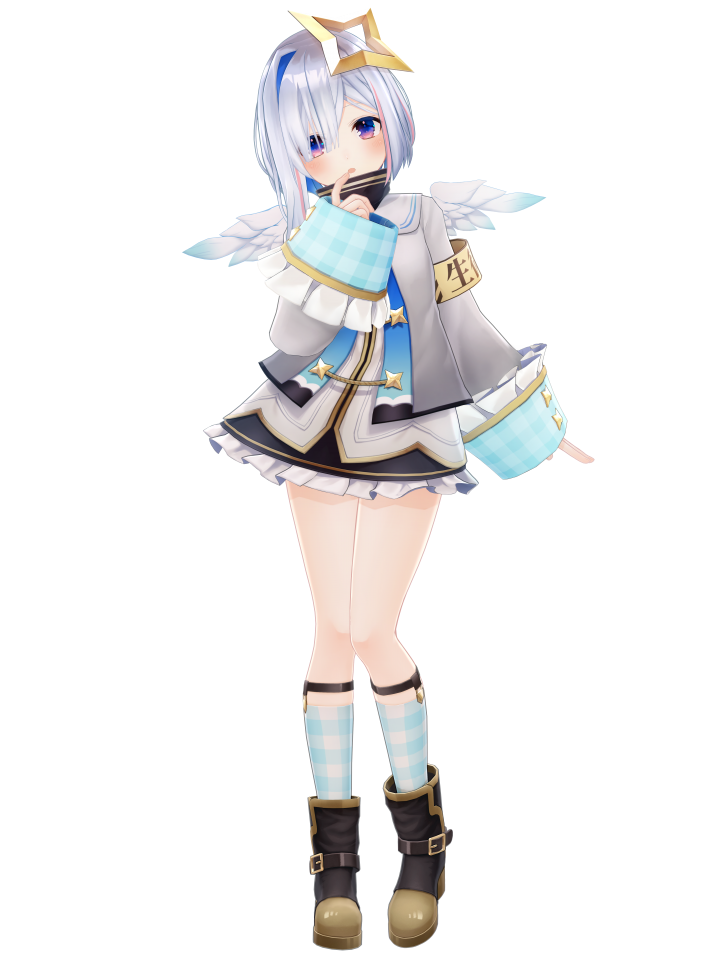
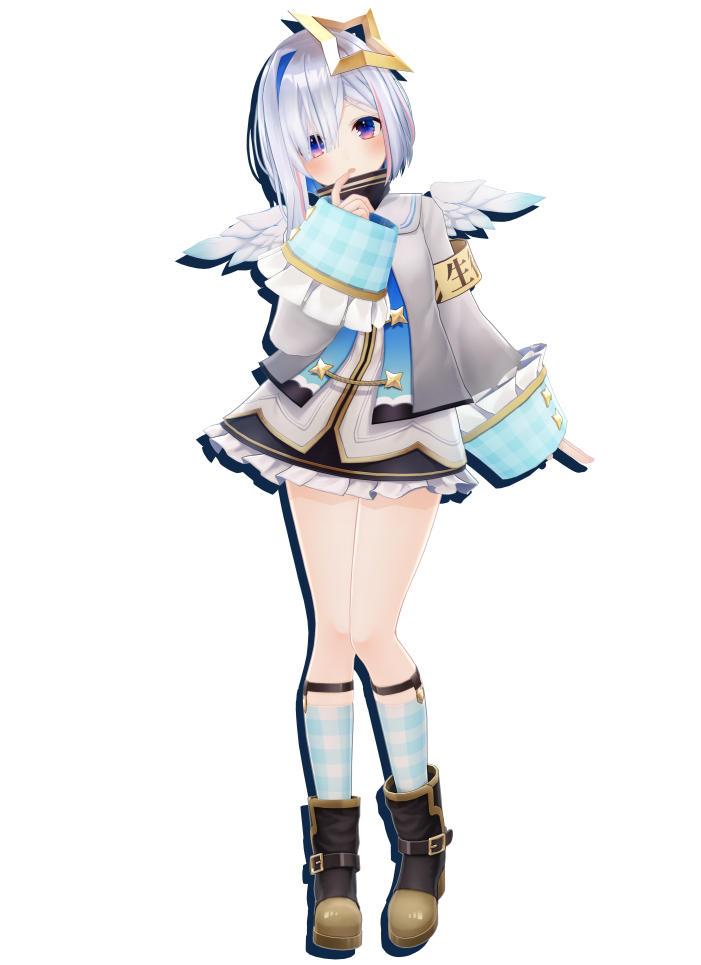
added more fighters and edited images

diff --git a/selectScreen.js b/selectScreen.js
@@ -20,7 +20,9 @@ let fighters = [{name: 'Tokino Sora', portrait: 'images/fighters/portraits/Tokin
 {name: 'Sakura Miko', portrait: 'images/fighters/portraits/Sakura-Miko-Portrait.png', full: 'images/fighters/fullBody/Sakura-Miko-Full.png'},
 {name: 'Omaru Polka', portrait: 'images/fighters/portraits/Omaru-Polka-Portrait.png', full: 'images/fighters/fullBody/Omaru-Polka-Full.png'},
 {name: 'Akai Haato', portrait: 'images/fighters/portraits/Akai-Haato-Portrait.png', full: 'images/fighters/fullBody/Akai-Haato-Full.png'},
-{name: 'Amane Kanata', portrait: 'images/fighters/portraits/Amane-Kanata-Portrait.png', full: 'images/fighters/fullBody/Amane-Kanata-Full.png'}
+{name: 'Amane Kanata', portrait: 'images/fighters/portraits/Amane-Kanata-Portrait.png', full: 'images/fighters/fullBody/Amane-Kanata-Full.png'},
+{name: 'Robocosan', portrait: 'images/fighters/portraits/Robocosan-Portrait.png', full: 'images/fighters/fullBody/Robocosan-Full.png'},
+{name: 'Shirogane Noel', portrait: 'images/fighters/portraits/Shirogane-Noel-Portrait.png', full: 'images/fighters/fullBody/Shirogane-Noel-Full.png'}
 ];
 
 const random = () => {
